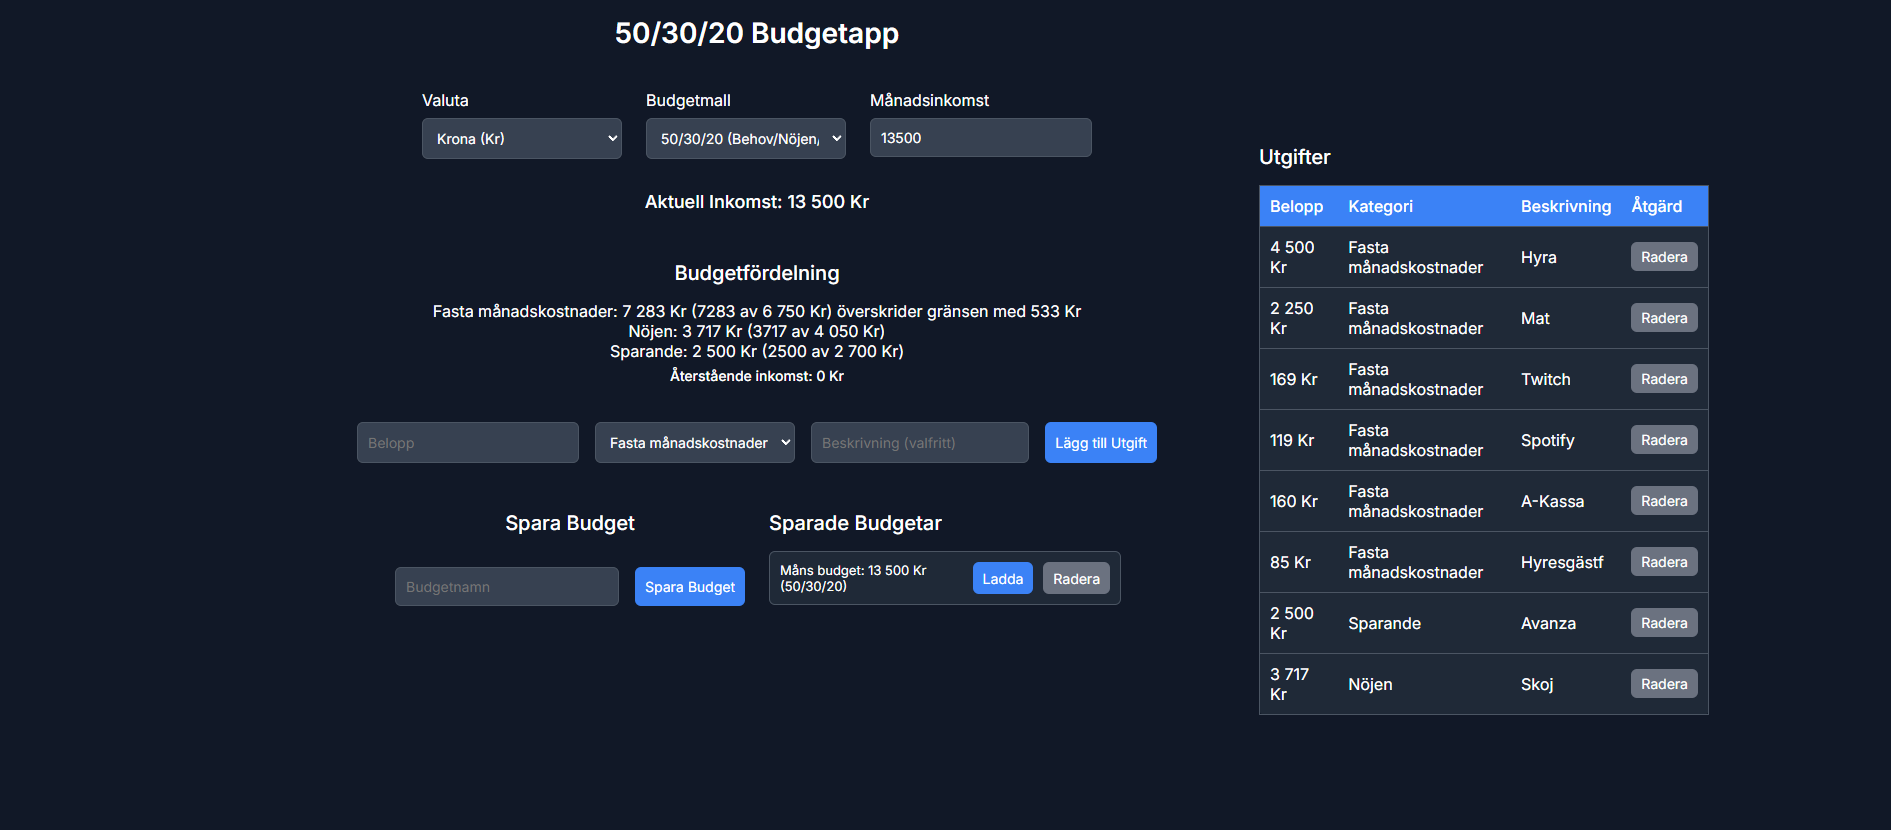
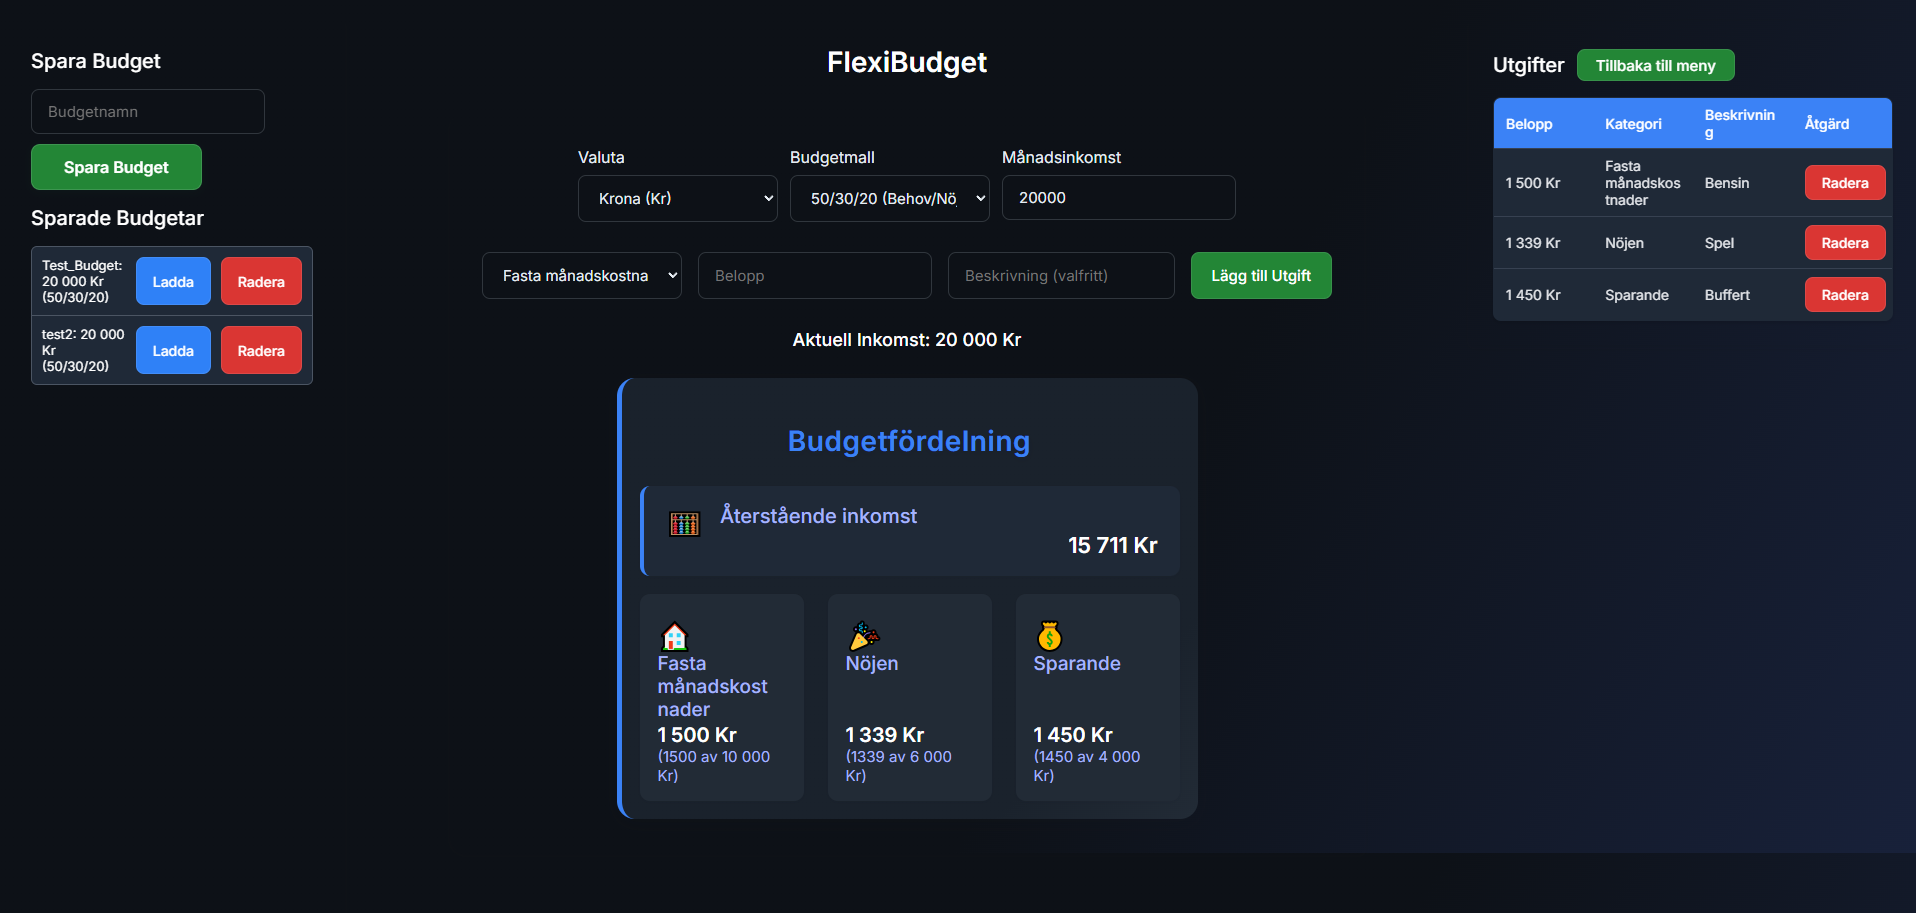
New pictures and name

diff --git a/budget-app/client/app.js b/budget-app/client/app.js
@@ -13,8 +13,8 @@ let initialDataLoaded = false;
 // Translations
 const translations = {
   en: {
-    appTitle: '50/30/20 Budget App',
-    appHeader: '50/30/20 Budget App',
+    appTitle: 'FlexiBudget',
+    appHeader: 'FlexiBudget',
     currencyLabel: 'Currency',
     currencyUSD: 'Dollars ($)',
     currencyEUR: 'Euro (€)',
@@ -64,11 +64,12 @@ const translations = {
     of: 'of',
     exceedsLimitBy: 'exceeds limit by',
     remainingIncome: 'Remaining income',
-    overBudget: 'Over budget'
+    overBudget: 'Over budget',
+    backToMyBudget: 'Back to Menu'
   },
   sv: {
-    appTitle: '50/30/20 Budgetapp',
-    appHeader: '50/30/20 Budgetapp',
+    appTitle: 'FlexiBudget',
+    appHeader: 'FlexiBudget',
     currencyLabel: 'Valuta',
     currencyUSD: 'Dollar ($)',
     currencyEUR: 'Euro (€)',
@@ -118,7 +119,8 @@ const translations = {
     of: 'av',
     exceedsLimitBy: 'överskrider gränsen med',
     remainingIncome: 'Återstående inkomst',
-    overBudget: 'Över budget'
+    overBudget: 'Över budget',
+    backToMyBudget: 'Tillbaka till meny'
   },
 };
 
@@ -215,6 +217,7 @@ function updateLanguage() {
   updateExpenseList();
   updateBudgetOverview();
   updateSnapshotList();
+  document.getElementById('exit-snapshot-btn').innerText = translate('backToMyBudget');
 }
 
 // Update currency
